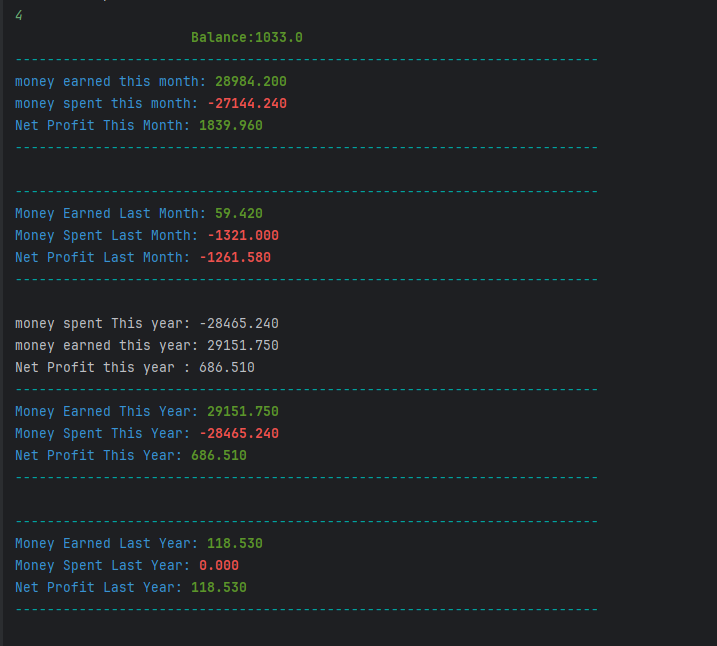
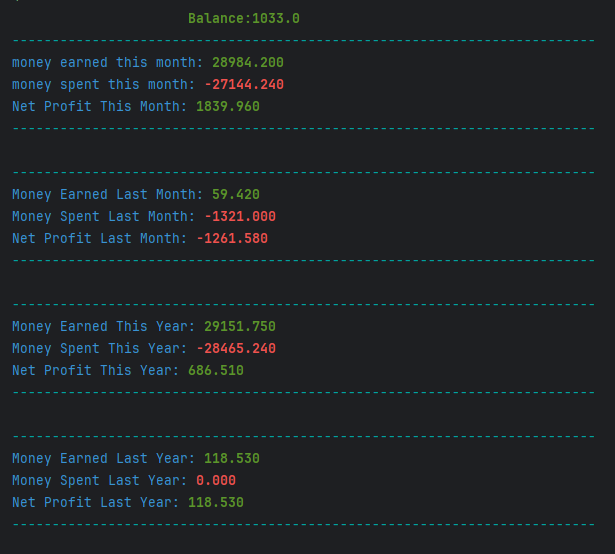
updating read me file

diff --git a/src/main/java/classes/Balance.java b/src/main/java/classes/Balance.java
@@ -153,9 +153,6 @@ public class Balance { // define ANSI color codes
         netProfitThisYear=moneyEarnedThisYear+moneySpentThisYear;
 
         // print the money spent this year
-        System.out.printf("\nmoney spent This year: %.3f",moneySpentThisYear);//print the money spent this year
-        System.out.printf("\nmoney earned this year: %.3f",moneyEarnedThisYear); // print the money earned this year
-        System.out.printf("\nNet Profit this year : %.3f",netProfitThisYear);//print net profit of this year
 
         System.out.println(cyan + "\n-------------------------------------------------------------------------"+reset);
 
